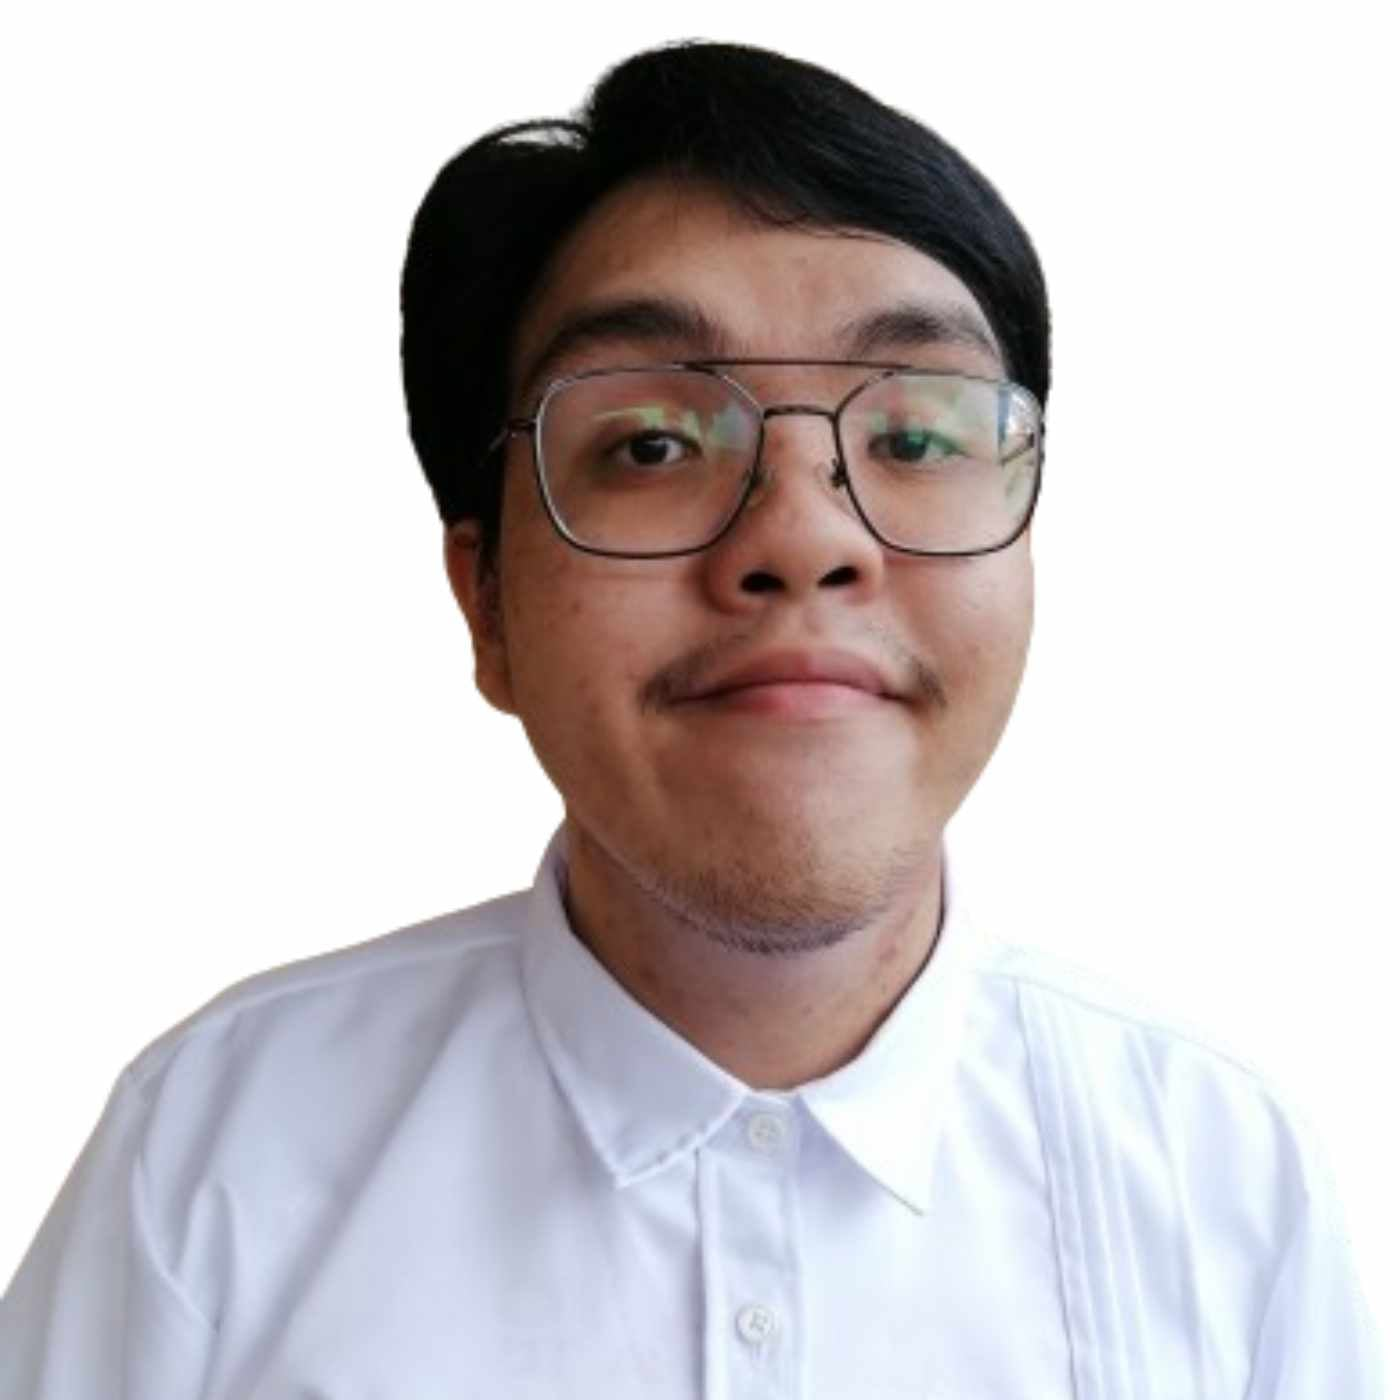
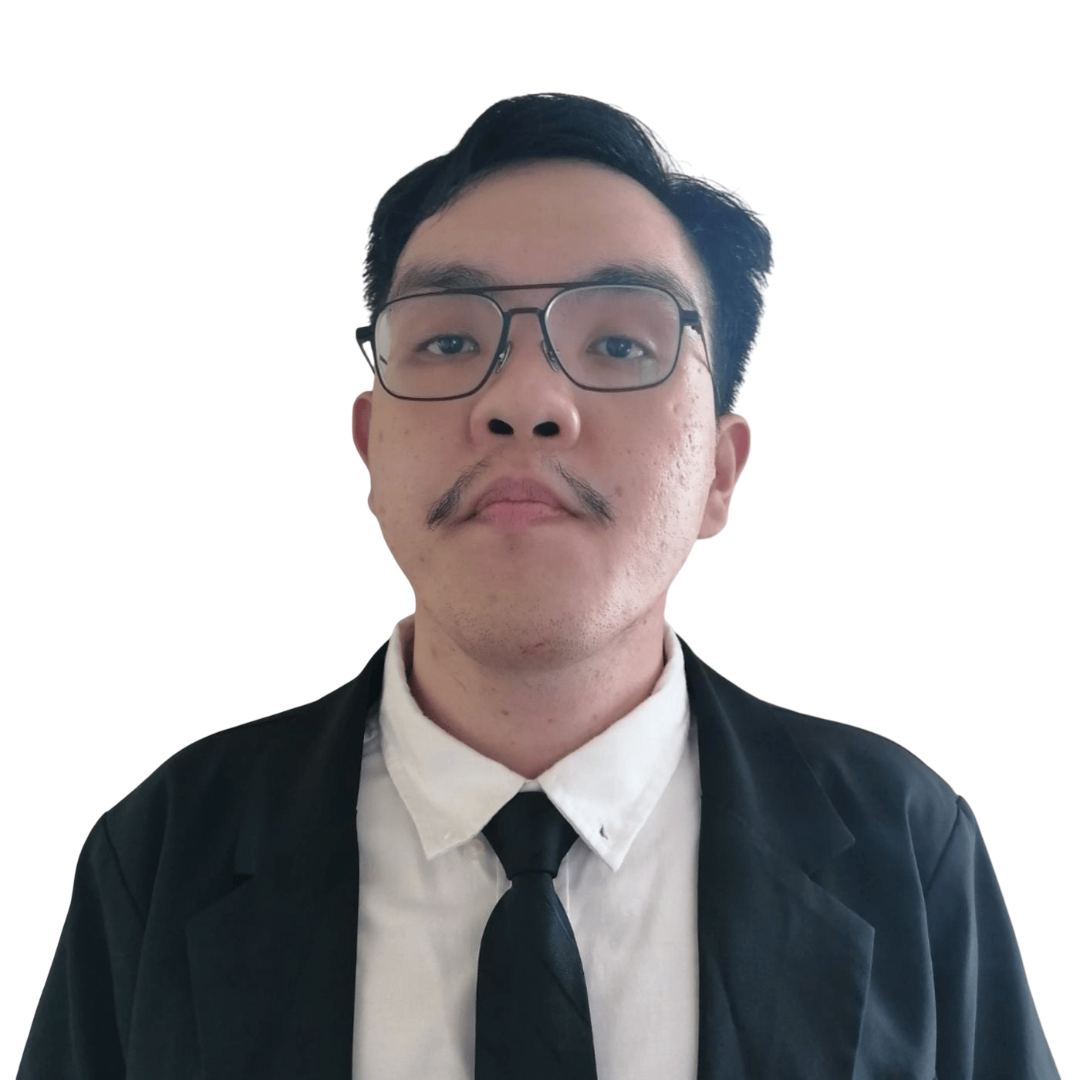
Update team image styles and T.png asset
Refined CSS for .team-image and its img to improve responsiveness and display consistency across breakpoints. Updated T.png image asset in about us section.

diff --git a/frontend/styles/aboutus.css b/frontend/styles/aboutus.css
@@ -270,6 +270,7 @@ section h2::after {
   width: 100%;
   height: 100%;
   object-fit: cover;
+  display: block;
 }
 
 .team-card h3 {
@@ -395,6 +396,18 @@ footer {
   .contact-grid {
     grid-template-columns: repeat(2, 1fr);
   }
+  .team-image {
+    width: 100%;
+    height: auto;
+    overflow: hidden;
+  }
+
+  .team-image img {
+    width: 100%;
+    height: auto;
+    object-fit: contain; /* Or remove this line entirely */
+    display: block;
+  }
 }
 
 @media (max-width: 768px) {
@@ -409,7 +422,18 @@ footer {
   section h2 {
     font-size: 28px;
   }
+  .team-image {
+    width: 100%;
+    height: auto;
+    overflow: hidden;
+  }
 
+  .team-image img {
+    width: 100%;
+    height: auto;
+    object-fit: contain; /* Or remove this line entirely */
+    display: block;
+  }
   .services-grid,
   .team-grid,
   .contact-grid {
@@ -450,7 +474,16 @@ footer {
   }
 
   .team-image {
-    height: 200px;
+    width: 100%;
+    height: auto;
+    overflow: hidden;
+  }
+
+  .team-image img {
+    width: 100%;
+    height: auto;
+    object-fit: contain; /* Or remove this line entirely */
+    display: block;
   }
 
   .story-content {
